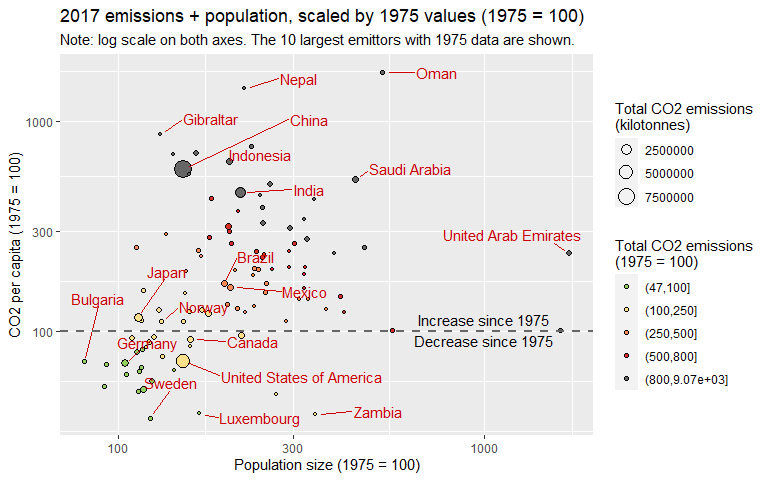
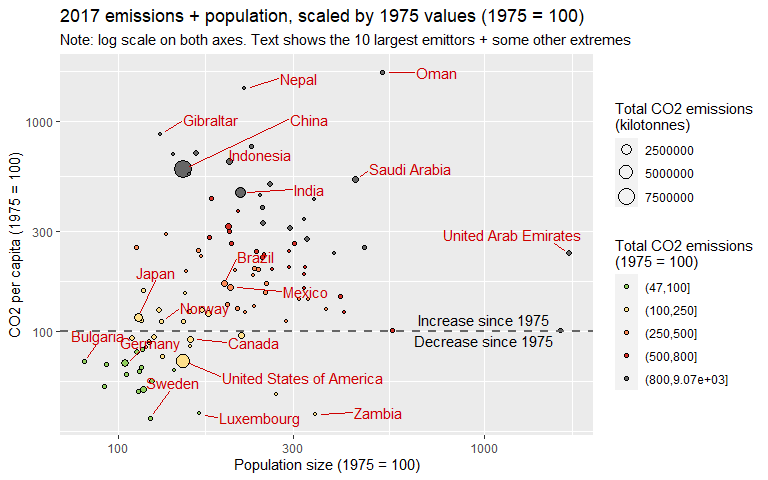
Fix two figures
- the second one in particular

diff --git a/02_Visualising_CO2_emissions.md b/02_Visualising_CO2_emissions.md
@@ -532,7 +532,7 @@ dat3a_2017 %>%
     x = "Population size (1975 = 100)",
     y = "CO2 per capita (1975 = 100)",
     title = "2017 emissions + population, scaled by 1975 values (1975 = 100)",
-    subtitle = "Note: log scale on both axes. The 10 largest emittors with 1975 data are shown."
+    subtitle = "Note: log scale on both axes. Text shows the 10 largest emittors + some other extremes"
   )
 ```
 
@@ -542,7 +542,7 @@ dat3a_2017 %>%
 # hjust = 0, nudge_x = 0.01, 
 ```
 
-### Plot scaled emissions + population for 2017   
+### Plot unscaled emissions + population for 2017   
 
 ```r
 # Find intervals for color scale 
@@ -582,10 +582,10 @@ dat3a_2017 %>%
     box.padding = .6, point.padding = 0.5, min.segment.length = 0, nudge_x = 0.15, nudge_y = 0.05
   ) +
   labs(
-    x = "Population size (1975 = 100)",
-    y = "CO2 per capita (1975 = 100)",
+    x = "Population size (millions)",
+    y = "CO2 per capita (tons)",
     title = "2017 emissions + population, absolute values",
-    subtitle = "Note: log scale on both axes. The 10 largest emittors with 1975 data are shown."
+    subtitle = "Note: log scale on both axes. Text shows the 10 largest emittors + some other extremes"
   )
 ```
 
